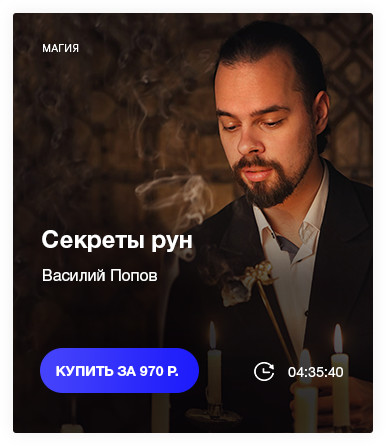
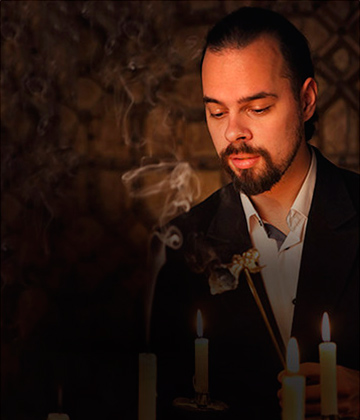
Courses in record is done

diff --git a/css/styles.css b/css/styles.css
@@ -1,1 +1,1 @@
-@font-face{font-family:'HelveticaNeueCyrBlack';src:url("../fonts/HelveticaNeueCyrBlack.eot");src:url("../fonts/HelveticaNeueCyrBlack.eot") format('embedded-opentype'), url("../fonts/HelveticaNeueCyrBlack.woff2") format('woff2'), url("../fonts/HelveticaNeueCyrBlack.woff") format('woff'), url("../fonts/HelveticaNeueCyrBlack.ttf") format('truetype'), url("../fonts/HelveticaNeueCyrBlack.svg#HelveticaNeueCyrBlack") format('svg')}@font-face{font-family:'HelveticaNeueCyrBold';src:url("../fonts/HelveticaNeueCyrBold.eot");src:url("../fonts/HelveticaNeueCyrBold.eot") format('embedded-opentype'), url("../fonts/HelveticaNeueCyrBold.woff2") format('woff2'), url("../fonts/HelveticaNeueCyrBold.woff") format('woff'), url("../fonts/HelveticaNeueCyrBold.ttf") format('truetype'), url("../fonts/HelveticaNeueCyrBold.svg#HelveticaNeueCyrBold") format('svg')}@font-face{font-family:'HelveticaNeueCyrLight';src:url("../fonts/HelveticaNeueCyrLight.eot");src:url("../fonts/HelveticaNeueCyrLight.eot") format('embedded-opentype'), url("../fonts/HelveticaNeueCyrLight.woff2") format('woff2'), url("../fonts/HelveticaNeueCyrLight.woff") format('woff'), url("../fonts/HelveticaNeueCyrLight.ttf") format('truetype'), url("../fonts/HelveticaNeueCyrLight.svg#HelveticaNeueCyrLight") format('svg')}@font-face{font-family:'HelveticaNeueCyrMedium';src:url("../fonts/HelveticaNeueCyrMedium.eot");src:url("../fonts/HelveticaNeueCyrMedium.eot") format('embedded-opentype'), url("../fonts/HelveticaNeueCyrMedium.woff2") format('woff2'), url("../fonts/HelveticaNeueCyrMedium.woff") format('woff'), url("../fonts/HelveticaNeueCyrMedium.ttf") format('truetype'), url("../fonts/HelveticaNeueCyrMedium.svg#HelveticaNeueCyrMedium") format('svg')}@font-face{font-family:'HelveticaNeueCyrRoman';src:url("../fonts/HelveticaNeueCyrRoman.eot");src:url("../fonts/HelveticaNeueCyrRoman.eot") format('embedded-opentype'), url("../fonts/HelveticaNeueCyrRoman.woff2") format('woff2'), url("../fonts/HelveticaNeueCyrRoman.woff") format('woff'), url("../fonts/HelveticaNeueCyrRoman.ttf") format('truetype'), url("../fonts/HelveticaNeueCyrRoman.svg#HelveticaNeueCyrRoman") format('svg')}*{margin:0;padding:0;outline:none}a{color:#fefefe;cursor:no-drop}a:focus{outline:0}p{line-height:1}.video_wrapper{margin:0 auto;position:relative}.video_wrapper:before{content:'';height:0;padding-top:56.25%;display:block}.video_wrapper iframe,.video_wrapper img{position:absolute;width:100%;height:100%;display:block;background-color:#fff;border-radius:3px;border:0;top:0;left:0;right:0;bottom:0;cursor:pointer}#header{padding:19px 0;overflow:hidden}#head_logo{width:220px;height:auto}.contacts{text-align:right}.contacts a{font-size:16px;font-family:"HelveticaNeueCyrMedium", sans-serif;color:#5452fe;line-height:1.625;text-align:right;margin-right:24px;line-height:32px}.contacts a span{font-family:"HelveticaNeueCyrRoman", sans-serif;color:#1d242b;text-align:right;margin-left:4px}.contacts a:last-child{margin-right:0}.contacts a:hover{text-decoration:none}.contacts a:hover span{text-decoration:underline}.contacts a:focus{text-decoration:none}.soc_buttons{display:table}.soc_buttons a{display:table-cell;vertical-align:middle}.soc_buttons a .fa{border-radius:50%;background-color:#1e1cfb;background-image:-webkit-linear-gradient(276deg, #1e1cfb 0%, #4543fb 100%);background-image:-o-linear-gradient(276deg, #1e1cfb 0%, #4543fb 100%);background-image:linear-gradient(174deg, #1e1cfb 0%, #4543fb 100%);width:32px;height:32px;line-height:32px;color:#fdfafa;font-size:18px;text-align:center;-webkit-transition:all 0.3s ease-in-out;-o-transition:all 0.3s ease-in-out;transition:all 0.3s ease-in-out}.soc_buttons a:hover .fa{color:#fdfcfd;background-color:#252525;background-image:-webkit-linear-gradient(276deg, transparent, transparent);background-image:-o-linear-gradient(276deg, transparent, transparent);background-image:linear-gradient(174deg, transparent, transparent);-webkit-transition:all 0.3s ease-in;-o-transition:all 0.3s ease-in;transition:all 0.3s ease-in}#main_screen{width:100%;padding:24px 0 56px;background-image:url("../img/main_bg.jpg");background-size:cover;background-repeat:no-repeat}#main_screen .container{position:relative}.pc_button{border:2px solid #fff;border-radius:23px;position:absolute;right:15px;top:0;width:138px;height:41px;line-height:41px;font-size:16px;font-family:"HelveticaNeueCyrBold";color:#fff;text-align:center}.pc_button:hover{color:#fff;text-decoration:none;background-image:-moz-linear-gradient(174deg, #1e1cfb 0%, #4543fb 100%);border-color:#4543fb}.pc_button:focus{color:#fff;text-decoration:none}#main_menu{margin:9px 0 54px}#main_menu li{font-size:14px;font-family:"HelveticaNeueCyrMedium", sans-serif;text-transform:uppercase;line-height:1.2;list-style:none;display:inline-block;margin-right:40px}#main_menu li a{color:rgba(255,255,255,0.6)}#main_menu li a:hover{color:#fff;text-decoration:none}#main_menu li:last-child{margin-right:0}.main_title{font-size:42px;font-family:"HelveticaNeueCyrBlack", sans-serif;color:#fff;line-height:1;margin:0 0 41px}#main_slider_container{position:relative;width:100%;margin:0 auto;left:0;right:0;bottom:0;overflow:hidden;height:361px}#main_slider{position:absolute;bottom:0px;left:-309px;right:-315px}.item img{float:left;margin:0 20px}#footer{padding:60px 0 57px;background-color:#e7e8e9}#footer_contacts .logo{display:block;margin-bottom:37px}#footer_contacts .contacts{text-align:left}#footer_contacts .contacts a{line-height:1;display:block;margin-bottom:15px;margin-right:0;text-align:left}#footer_contacts .contacts a:last-child{margin-bottom:0}#footer_menu li{font-size:14px;font-family:"HelveticaNeueCyrMedium", sans-serif;text-transform:uppercase;line-height:1.2;margin-bottom:17px;list-style:none}#footer_menu li a{color:#2e2f2e}#footer_menu li:last-child{margin-bottom:0}.doc_links a{font-size:16px;font-family:"HelveticaNeueCyrLight", sans-serif;color:rgba(85,83,254,0.702);display:inline-block;margin-bottom:20px}#documents_n_soc .soc_buttons{margin-top:32px;width:250px}#documents_n_soc .soc_buttons a .fa{height:44px;line-height:44px;width:44px;font-size:24px}.adress{font-size:16px;font-family:"HelveticaNeueCyrLight", sans-serif;color:rgba(27,26,26,0.6);line-height:1.625;margin-top:34px}
+@font-face{font-family:'HelveticaNeueCyrBlack';src:url("../fonts/HelveticaNeueCyrBlack.eot");src:url("../fonts/HelveticaNeueCyrBlack.eot") format('embedded-opentype'), url("../fonts/HelveticaNeueCyrBlack.woff2") format('woff2'), url("../fonts/HelveticaNeueCyrBlack.woff") format('woff'), url("../fonts/HelveticaNeueCyrBlack.ttf") format('truetype'), url("../fonts/HelveticaNeueCyrBlack.svg#HelveticaNeueCyrBlack") format('svg')}@font-face{font-family:'HelveticaNeueCyrBold';src:url("../fonts/HelveticaNeueCyrBold.eot");src:url("../fonts/HelveticaNeueCyrBold.eot") format('embedded-opentype'), url("../fonts/HelveticaNeueCyrBold.woff2") format('woff2'), url("../fonts/HelveticaNeueCyrBold.woff") format('woff'), url("../fonts/HelveticaNeueCyrBold.ttf") format('truetype'), url("../fonts/HelveticaNeueCyrBold.svg#HelveticaNeueCyrBold") format('svg')}@font-face{font-family:'HelveticaNeueCyrLight';src:url("../fonts/HelveticaNeueCyrLight.eot");src:url("../fonts/HelveticaNeueCyrLight.eot") format('embedded-opentype'), url("../fonts/HelveticaNeueCyrLight.woff2") format('woff2'), url("../fonts/HelveticaNeueCyrLight.woff") format('woff'), url("../fonts/HelveticaNeueCyrLight.ttf") format('truetype'), url("../fonts/HelveticaNeueCyrLight.svg#HelveticaNeueCyrLight") format('svg')}@font-face{font-family:'HelveticaNeueCyrMedium';src:url("../fonts/HelveticaNeueCyrMedium.eot");src:url("../fonts/HelveticaNeueCyrMedium.eot") format('embedded-opentype'), url("../fonts/HelveticaNeueCyrMedium.woff2") format('woff2'), url("../fonts/HelveticaNeueCyrMedium.woff") format('woff'), url("../fonts/HelveticaNeueCyrMedium.ttf") format('truetype'), url("../fonts/HelveticaNeueCyrMedium.svg#HelveticaNeueCyrMedium") format('svg')}@font-face{font-family:'HelveticaNeueCyrRoman';src:url("../fonts/HelveticaNeueCyrRoman.eot");src:url("../fonts/HelveticaNeueCyrRoman.eot") format('embedded-opentype'), url("../fonts/HelveticaNeueCyrRoman.woff2") format('woff2'), url("../fonts/HelveticaNeueCyrRoman.woff") format('woff'), url("../fonts/HelveticaNeueCyrRoman.ttf") format('truetype'), url("../fonts/HelveticaNeueCyrRoman.svg#HelveticaNeueCyrRoman") format('svg')}*{margin:0;padding:0;outline:none}a{color:#fefefe;cursor:no-drop}a:focus{outline:0}p{line-height:1}.video_wrapper{margin:0 auto;position:relative}.video_wrapper:before{content:'';height:0;padding-top:56.25%;display:block}.video_wrapper iframe,.video_wrapper img{position:absolute;width:100%;height:100%;display:block;background-color:#fff;border-radius:3px;border:0;top:0;left:0;right:0;bottom:0;cursor:pointer}#header{padding:19px 0;overflow:hidden}#head_logo{width:220px;height:auto}.contacts{text-align:right}.contacts a{font-size:16px;font-family:"HelveticaNeueCyrMedium", sans-serif;color:#5452fe;line-height:1.625;text-align:right;margin-right:24px;line-height:32px}.contacts a span{font-family:"HelveticaNeueCyrRoman", sans-serif;color:#1d242b;text-align:right;margin-left:4px}.contacts a:last-child{margin-right:0}.contacts a:hover{text-decoration:none}.contacts a:hover span{text-decoration:underline}.contacts a:focus{text-decoration:none}.soc_buttons{display:table}.soc_buttons a{display:table-cell;vertical-align:middle}.soc_buttons a .fa{border-radius:50%;background-color:#1e1cfb;background-image:-webkit-linear-gradient(276deg, #1e1cfb 0%, #4543fb 100%);background-image:-o-linear-gradient(276deg, #1e1cfb 0%, #4543fb 100%);background-image:linear-gradient(174deg, #1e1cfb 0%, #4543fb 100%);width:32px;height:32px;line-height:32px;color:#fdfafa;font-size:18px;text-align:center;-webkit-transition:all 0.3s ease-in-out;-o-transition:all 0.3s ease-in-out;transition:all 0.3s ease-in-out}.soc_buttons a:hover .fa{color:#fdfcfd;background-color:#252525;background-image:-webkit-linear-gradient(276deg, transparent, transparent);background-image:-o-linear-gradient(276deg, transparent, transparent);background-image:linear-gradient(174deg, transparent, transparent);-webkit-transition:all 0.3s ease-in;-o-transition:all 0.3s ease-in;transition:all 0.3s ease-in}#main_screen{width:100%;padding:24px 0 56px;background-image:url("../img/main_bg.jpg");background-size:cover;background-repeat:no-repeat}#main_screen .container{position:relative}.pc_button{border:2px solid #fff;border-radius:23px;position:absolute;right:15px;top:0;width:138px;height:41px;line-height:41px;font-size:16px;font-family:"HelveticaNeueCyrBold";color:#fff;text-align:center}.pc_button:hover{color:#fff;text-decoration:none;background-image:-moz-linear-gradient(174deg, #1e1cfb 0%, #4543fb 100%);border-color:#4543fb}.pc_button:focus{color:#fff;text-decoration:none}#main_menu{margin:9px 0 54px}#main_menu li{font-size:14px;font-family:"HelveticaNeueCyrMedium", sans-serif;text-transform:uppercase;line-height:1.2;list-style:none;display:inline-block;margin-right:40px}#main_menu li a{color:rgba(255,255,255,0.6)}#main_menu li a:hover{color:#fff;text-decoration:none}#main_menu li:last-child{margin-right:0}.main_title{font-size:42px;font-family:"HelveticaNeueCyrBlack", sans-serif;color:#fff;line-height:1;margin:0 0 41px}#main_slider_container{position:relative;width:100%;margin:0 auto;left:0;right:0;bottom:0;overflow:hidden;height:361px}#main_slider{position:absolute;bottom:0px;left:-309px;right:-315px}.item img{float:left;margin:0 20px}#courses_in_record{padding:100px 0 60px;overflow:hidden}#title_an_rules{float:left;margin-right:31px}#title_an_rules h3{font-size:32px;font-family:"HelveticaNeueCyrBold", sans-serif;color:#252525;line-height:1;margin:41px 0 14px}.course_nums{font-size:18px;font-family:"HelveticaNeueCyrRoman", sans-serif;color:#2220fb;line-height:1.444}#cir_nav{margin-top:87px;width:134px;overflow:hidden}.cir_arrow{border-radius:50%;background-color:#2220fb;width:50px;height:50px;line-height:47px;color:#f8f8f9;font-size:24px;text-align:center}.cir_arrow:hover{background-color:#252525;color:#f8f8f9;text-decoration:none}.cir_arrow:focus{color:#f8f8f9;text-decoration:none}.cir_prev{float:left}.cir_next{float:right}#cir_slider{width:2000px}.cir_single{border-radius:3px;background-color:#fff;-webkit-box-shadow:0px 0px 17px 0px rgba(0,0,0,0.07);box-shadow:0px 0px 17px 0px rgba(0,0,0,0.07);width:360px;height:420px;display:inline-block;margin:0 15px;position:relative;padding:29px;float:left}.cir_single:first-child{background-image:url("../img/course_rec_1.jpg");background-repeat:no-repeat;background-position:0 0}.cir_single:nth-child(2){background-image:url("../img/course_rec_2.jpg");background-repeat:no-repeat;background-position:0 0}.cir_single:nth-child(3){background-image:url("../img/course_rec_1.jpg");background-repeat:no-repeat;background-position:0 0}.cir_cat{font-size:10px;font-family:"HelveticaNeueCyrLight", sans-serif;color:#fff;text-transform:uppercase;line-height:1;margin:0}.cir_title{font-size:24px;font-family:"HelveticaNeueCyrBold", sans-serif;color:#fff;line-height:1.1;margin:175px 0 12px}.cir_author{font-size:16px;font-family:"HelveticaNeueCyrRoman", sans-serif;color:#fff;line-height:1.2}.cir_button{background-image:-webkit-linear-gradient(276deg, #1e1cfb 0%, #4543fb 100%);background-image:-o-linear-gradient(276deg, #1e1cfb 0%, #4543fb 100%);background-image:linear-gradient(174deg, #1e1cfb 0%, #4543fb 100%);border-radius:23px;position:absolute;width:159px;height:45px;bottom:39px;left:27px;font-size:14px;font-family:"HelveticaNeueCyrBold", sans-serif;color:#fff;text-transform:uppercase;line-height:45px;text-align:center}.cir_button:focus{color:#fff;text-decoration:none}.cir_button:hover{background-image:-webkit-linear-gradient(276deg, transparent 0%, transparent 100%);background-image:-o-linear-gradient(276deg, transparent 0%, transparent 100%);background-image:linear-gradient(174deg, transparent 0%, transparent 100%);background-color:#fff;color:#2220fb;text-decoration:none}.cir_time{font-size:16px;font-family:"HelveticaNeueCyrRoman", sans-serif;color:#fff;line-height:1.2;text-align:right;position:absolute;right:30px;bottom:50px;letter-spacing:-0.7px}.cir_time img{margin-right:12px}#footer{padding:60px 0 57px;background-color:#e7e8e9}#footer_contacts .logo{display:block;margin-bottom:37px}#footer_contacts .contacts{text-align:left}#footer_contacts .contacts a{line-height:1;display:block;margin-bottom:15px;margin-right:0;text-align:left}#footer_contacts .contacts a:last-child{margin-bottom:0}#footer_menu li{font-size:14px;font-family:"HelveticaNeueCyrMedium", sans-serif;text-transform:uppercase;line-height:1.2;margin-bottom:17px;list-style:none}#footer_menu li a{color:#2e2f2e}#footer_menu li:last-child{margin-bottom:0}.doc_links a{font-size:16px;font-family:"HelveticaNeueCyrLight", sans-serif;color:rgba(85,83,254,0.702);display:inline-block;margin-bottom:20px}#documents_n_soc .soc_buttons{margin-top:32px;width:250px}#documents_n_soc .soc_buttons a .fa{height:44px;line-height:44px;width:44px;font-size:24px}.adress{font-size:16px;font-family:"HelveticaNeueCyrLight", sans-serif;color:rgba(27,26,26,0.6);line-height:1.625;margin-top:34px}

diff --git a/index.html b/index.html
@@ -37,6 +37,38 @@
         <div id="main_slider"><a class="item" href="#!"><img src="img/banner_2.jpg" alt="Баннер 1"/></a><a class="item" href="#!"><img src="img/banner_2.jpg" alt="Баннер 2"/></a><a class="item" href="#!"><img src="img/banner_2.jpg" alt="Баннер 2"/></a></div>
       </div>
     </section>
+    <section id="courses_in_record">
+      <div class="container">
+        <div id="title_an_rules">
+          <h3>Курсы в записи</h3>
+          <p class="course_nums">12 курсов</p>
+          <div id="cir_nav"><a class="cir_arrow cir_prev" href="#!">&larr;</a><a class="cir_arrow cir_next" href="#!">&rarr;</a></div>
+        </div>
+        <div id="cir_slider">
+              <div class="cir_single">
+                <p class="cir_cat">Магия</p>
+                <h4 class="cir_title">Секреты рун</h4>
+                <p class="cir_author">Василий Попов</p><a class="cir_button" href="javascript:void(0)" target="_blank">Купить за 970р.</a>
+                <p class="cir_time"> <img src="img/clock.png" alt="Время"/>04:35:40
+                </p>
+              </div>
+              <div class="cir_single">
+                <p class="cir_cat">Нумерология</p>
+                <h4 class="cir_title">Магия цифр</h4>
+                <p class="cir_author">Ольга Герасимова</p><a class="cir_button" href="javascript:void(0)" target="_blank">Купить за 970р.</a>
+                <p class="cir_time"> <img src="img/clock.png" alt="Время"/>04:35:40
+                </p>
+              </div>
+              <div class="cir_single">
+                <p class="cir_cat">Таро</p>
+                <h4 class="cir_title">Секреты Таро</h4>
+                <p class="cir_author">Василий Попов</p><a class="cir_button" href="javascript:void(0)" target="_blank">Купить за 970р.</a>
+                <p class="cir_time"> <img src="img/clock.png" alt="Время"/>04:35:40
+                </p>
+              </div>
+        </div>
+      </div>
+    </section>
     <footer id="footer">
       <div class="container">
         <div class="row">
